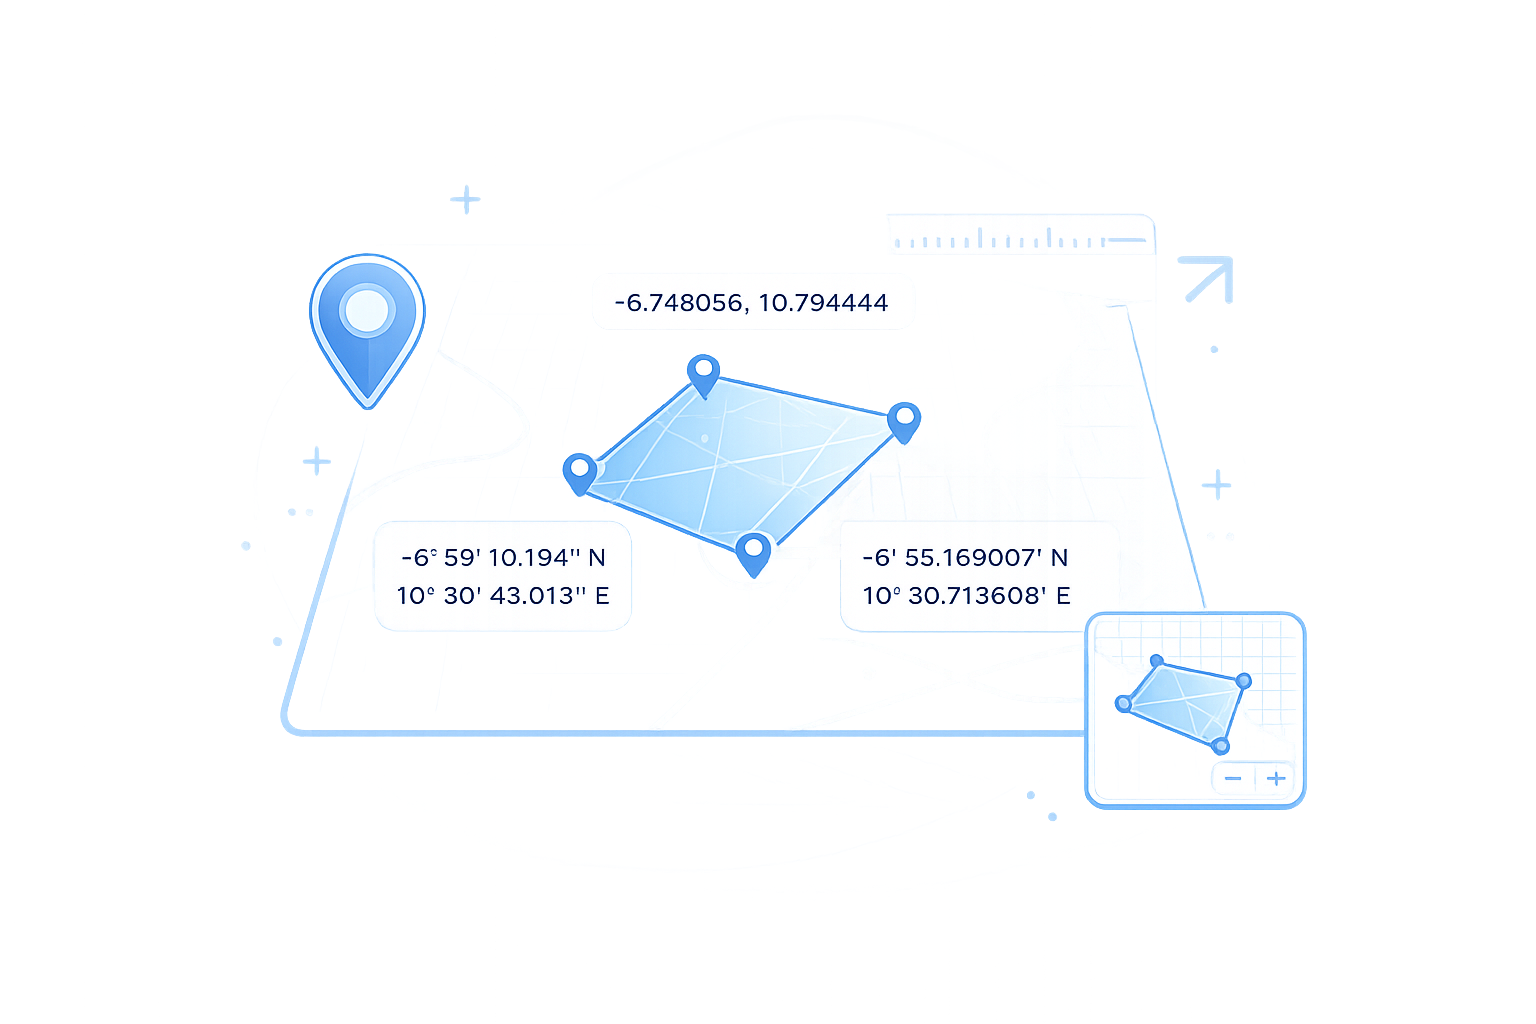
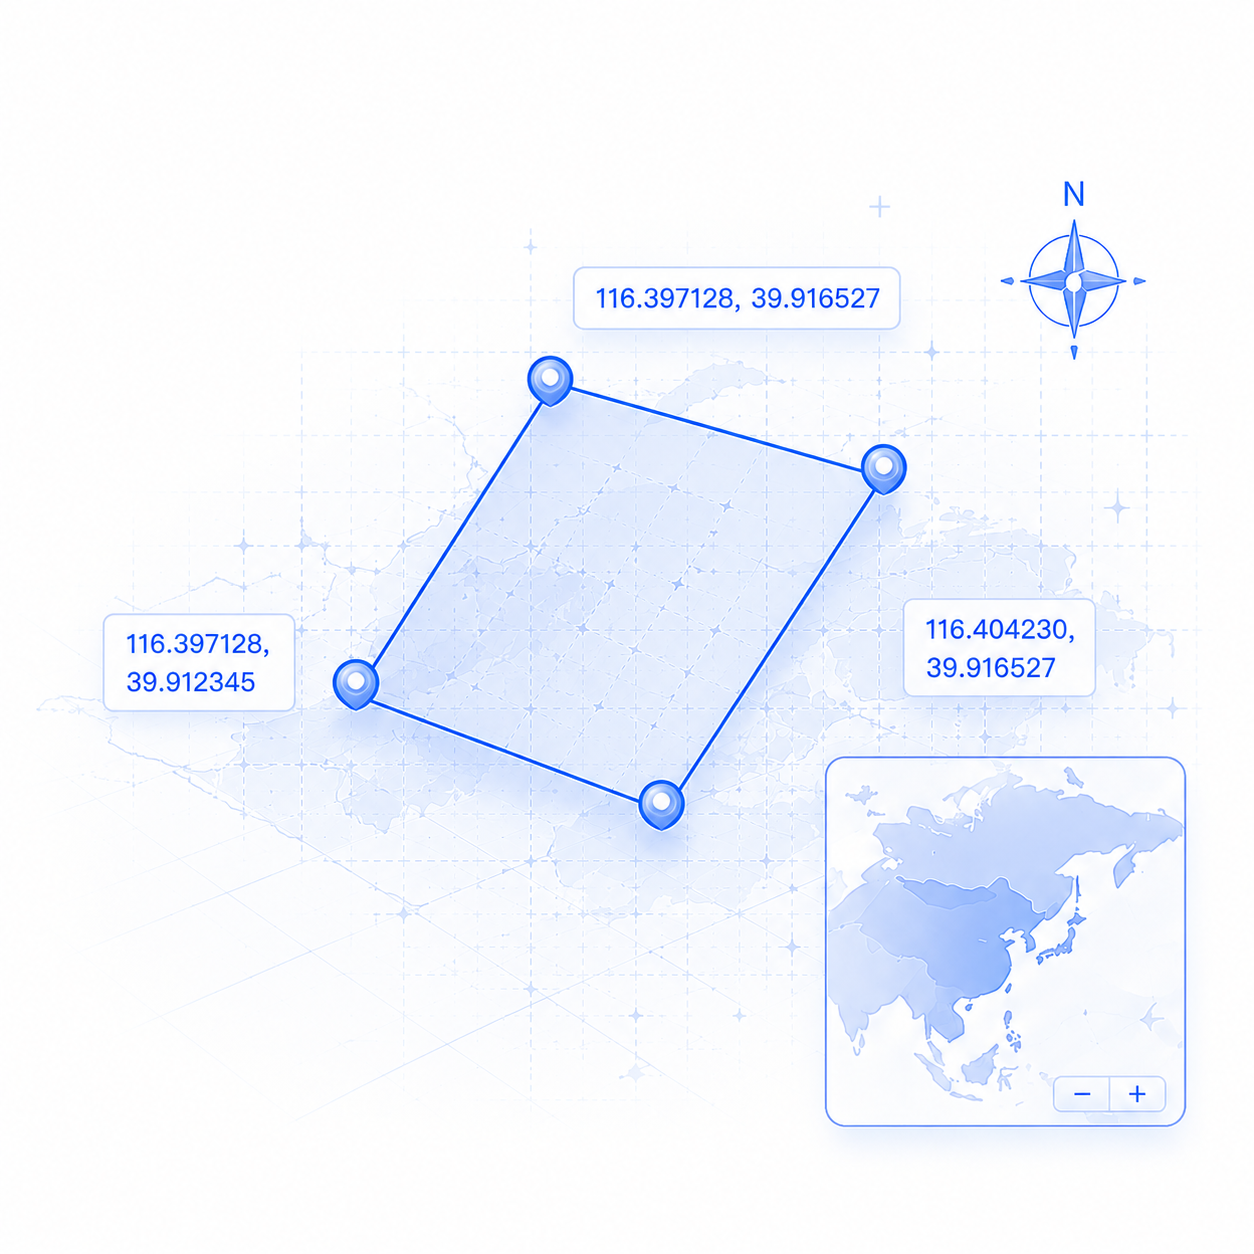
Replace home card illustrations

diff --git a/index.html b/index.html
@@ -175,35 +175,20 @@
       overflow: hidden;
     }
 
-    .module-card::before,
-    .module-card::after {
+    .module-card::before {
       content: "";
       position: absolute;
       background-repeat: no-repeat;
       pointer-events: none;
       z-index: 0;
-    }
-
-    .module-card::before {
       inset: 0 0 0 auto;
       width: 42%;
       background-position: center right;
       background-size: cover;
-      opacity: 0.22;
-      filter: saturate(0.9) contrast(0.92);
+      opacity: 0.42;
+      filter: saturate(1.24) contrast(1.4);
       -webkit-mask-image: linear-gradient(90deg, transparent 0%, rgba(0, 0, 0, 0.7) 26%, #000 72%, transparent 100%);
       mask-image: linear-gradient(90deg, transparent 0%, rgba(0, 0, 0, 0.7) 26%, #000 72%, transparent 100%);
-    }
-
-    .module-card::after {
-      top: 14px;
-      right: 14px;
-      bottom: 14px;
-      width: 36%;
-      opacity: 0.32;
-      filter: saturate(1.12) contrast(1.14);
-      -webkit-mask-image: radial-gradient(ellipse at center, #000 0%, rgba(0, 0, 0, 0.86) 50%, transparent 80%);
-      mask-image: radial-gradient(ellipse at center, #000 0%, rgba(0, 0, 0, 0.86) 50%, transparent 80%);
     }
 
     .module-card > * {
@@ -386,18 +371,10 @@
       background: #ffffff;
     }
 
-    .module-card.primary-module::before,
-    .module-card.primary-module::after {
-      background-image: url("assets/home-coordinate-illustration.png");
-    }
-
     .module-card.primary-module::before {
-      opacity: 0.24;
-    }
-
-    .module-card.primary-module::after {
-      background-position: 54% 58%;
-      background-size: 230%;
+      background-image: url("assets/home-coordinate-illustration.png");
+      background-position: 55% 54%;
+      background-size: 180%;
       opacity: 0.42;
       filter: saturate(1.24) contrast(1.4);
     }
@@ -407,16 +384,8 @@
       background: #ffffff;
     }
 
-    .module-card.judge-module::before,
-    .module-card.judge-module::after {
-      background-image: url("assets/home-judge-illustration.png");
-    }
-
     .module-card.judge-module::before {
-      opacity: 0.22;
-    }
-
-    .module-card.judge-module::after {
+      background-image: url("assets/home-judge-illustration.png");
       background-position: 62% 54%;
       background-size: 182%;
       opacity: 0.38;
@@ -428,16 +397,8 @@
       background: #ffffff;
     }
 
-    .module-card.gold-module::before,
-    .module-card.gold-module::after {
-      background-image: url("assets/home-gold-illustration.png");
-    }
-
     .module-card.gold-module::before {
-      opacity: 0.2;
-    }
-
-    .module-card.gold-module::after {
+      background-image: url("assets/home-gold-illustration.png");
       background-position: 45% 50%;
       background-size: 190%;
       opacity: 0.39;
@@ -3136,38 +3097,19 @@
 
       .module-card::before {
         width: 38%;
-        opacity: 0.15;
-        background-size: cover;
-      }
-
-      .module-card::after {
-        top: 12px;
-        right: 14px;
-        bottom: 12px;
-        width: 36%;
-        opacity: 0.25;
       }
 
       .module-card.primary-module::before {
-        opacity: 0.17;
-      }
-
-      .module-card.judge-module::before,
-      .module-card.gold-module::before {
-        opacity: 0.15;
-      }
-
-      .module-card.primary-module::after {
-        background-position: 52% 60%;
-        background-size: 240%;
+        background-position: 55% 54%;
+        background-size: 185%;
         opacity: 0.38;
       }
 
-      .module-card.judge-module::after {
+      .module-card.judge-module::before {
         opacity: 0.32;
       }
 
-      .module-card.gold-module::after {
+      .module-card.gold-module::before {
         background-position: 43% 50%;
         background-size: 200%;
         opacity: 0.36;
